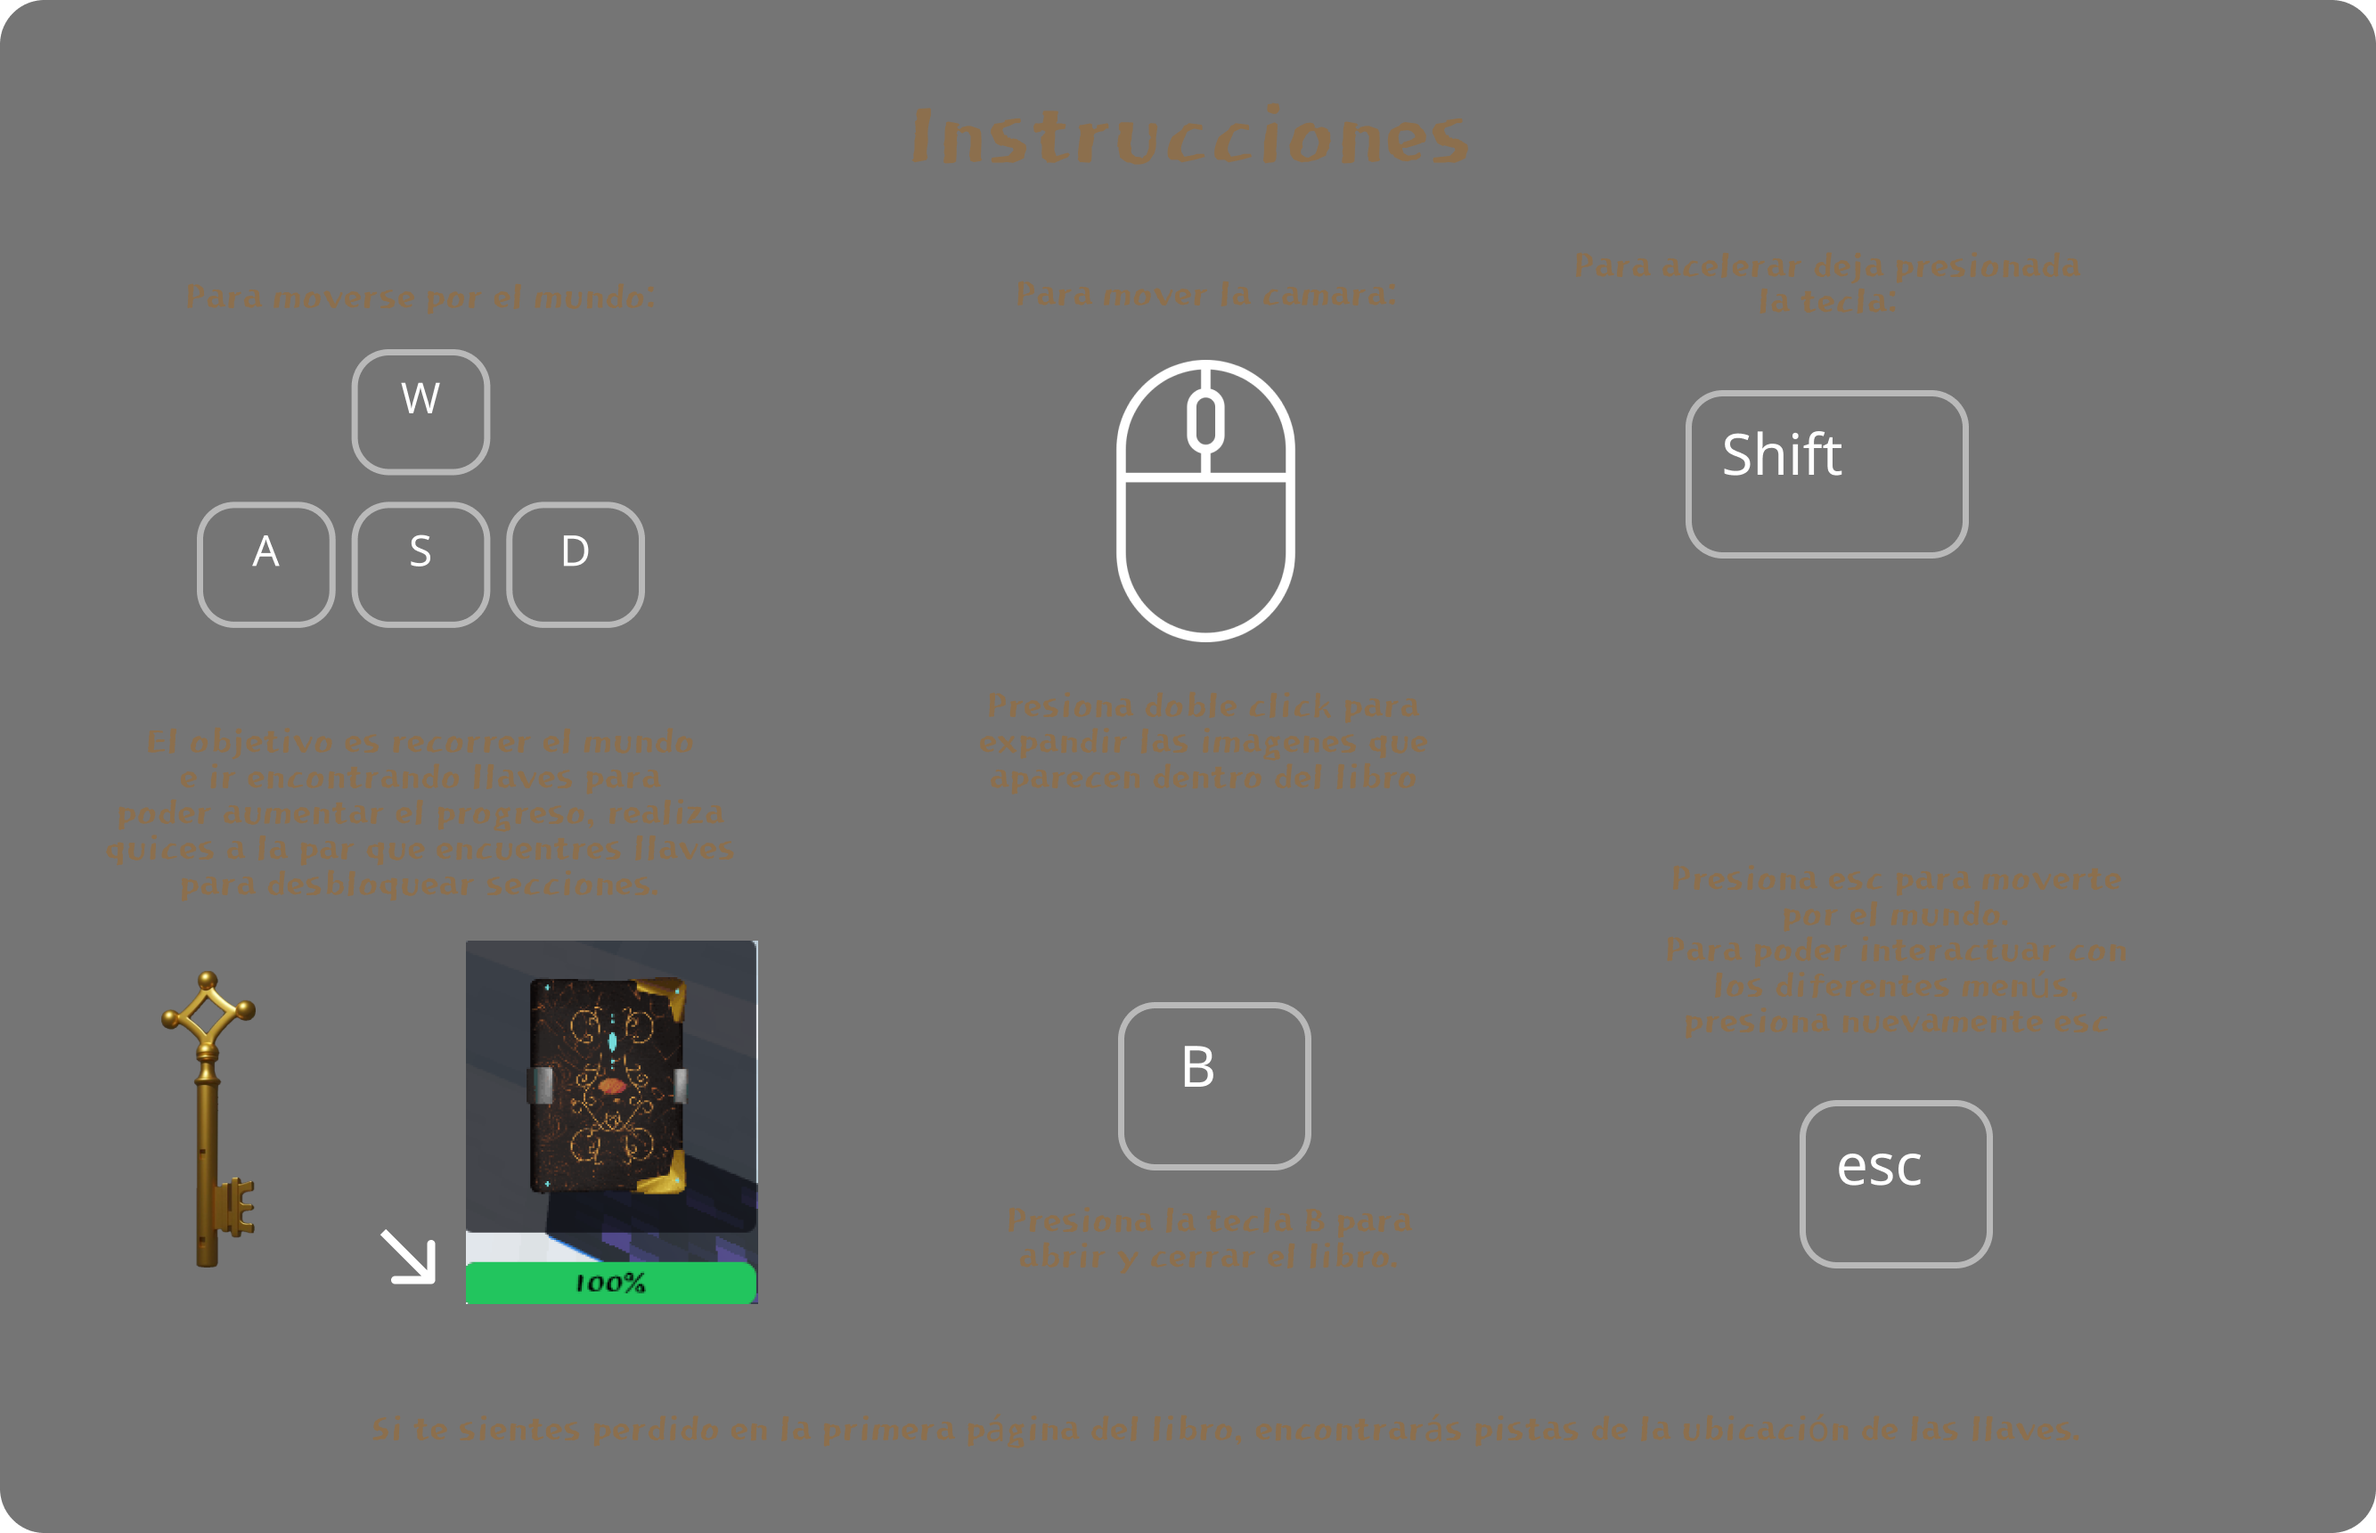
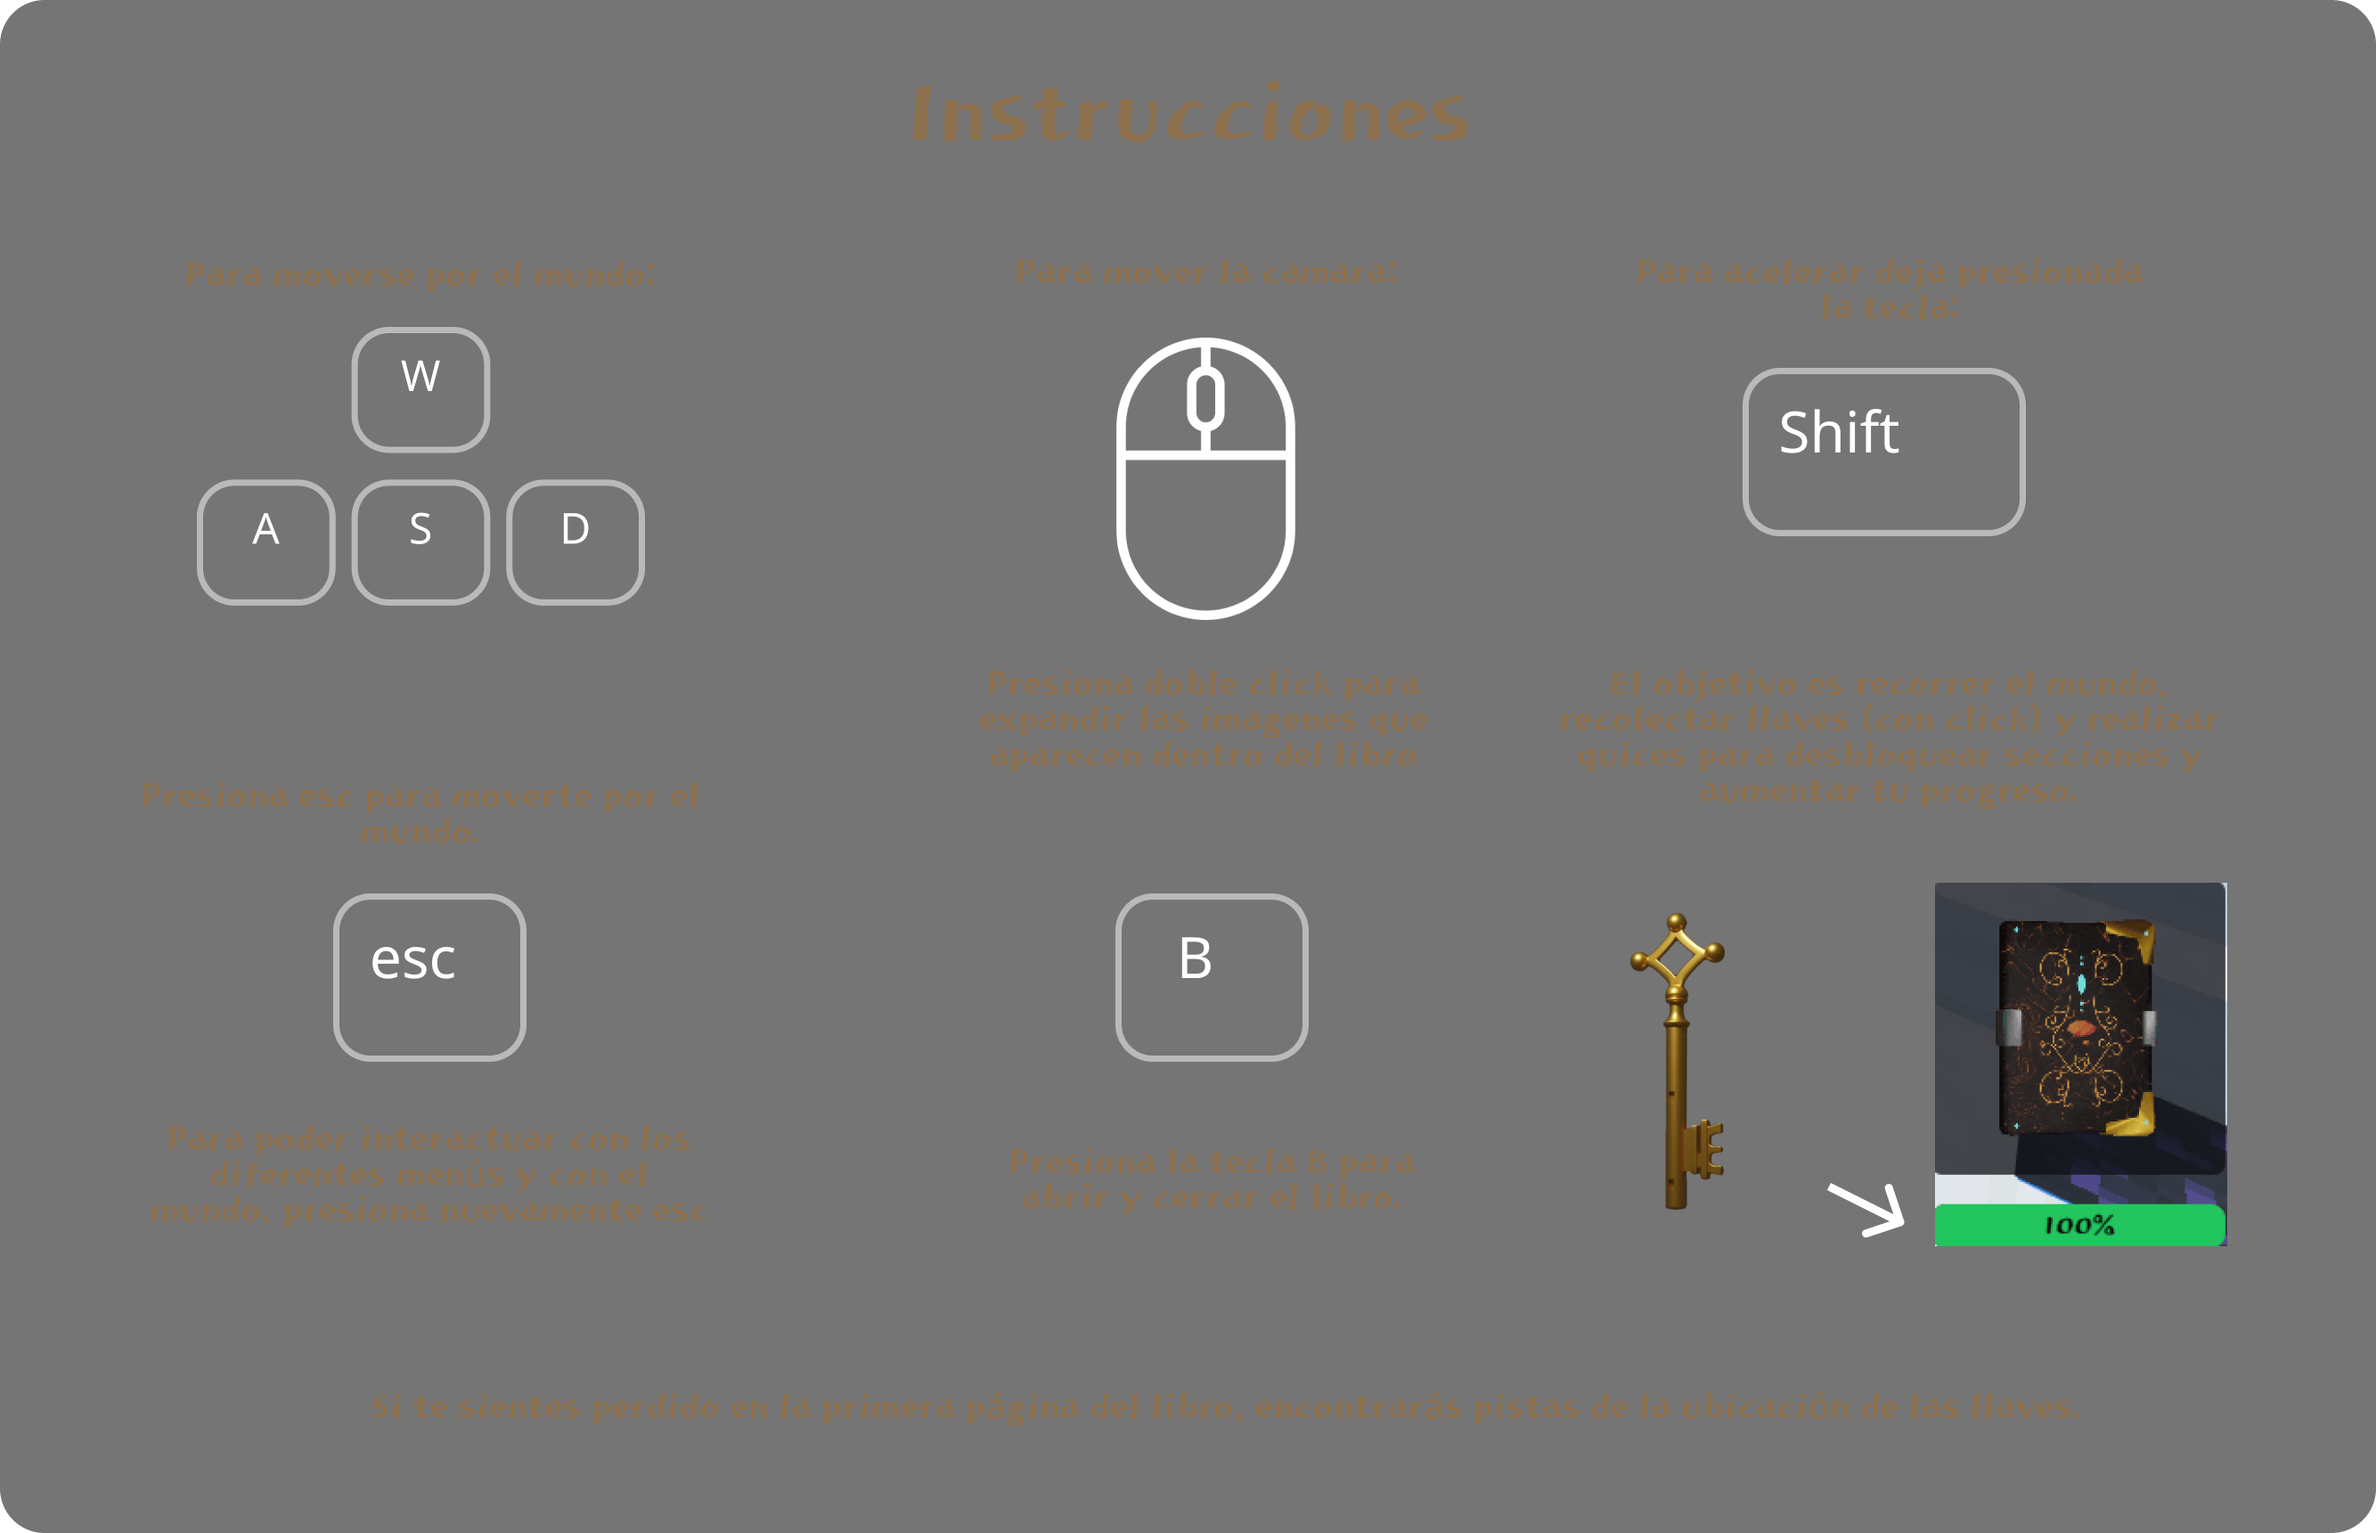
Fix user's guide (valery-jose-andres-cesar)

diff --git a/frontend/src/components/elements/Help.jsx b/frontend/src/components/elements/Help.jsx
@@ -1,6 +1,6 @@
 'use client'
 
-import React, { useState, useContext } from 'react'
+import React, { useState, useContext, useEffect } from 'react'
 import { useRef } from 'react'
 import dynamic from 'next/dynamic'
 import Link from 'next/link'
@@ -13,6 +13,7 @@ export const Help = ({ onClick }) => {
 
   // Estados
   const [showMessage, setShowMessage] = useState(false);
+  const [windowSize, setWindowSize] = useState({ width: 0, height: 0 })
 
   // Contextos
   const { bookState, setBookState } = useContext(BookContext);
@@ -26,22 +27,42 @@ export const Help = ({ onClick }) => {
     setShowMessage(false);
     setBookState({ ...bookState, isHelpOpen: false })
   };
-  
 
-  if (showMessage){
+  //Obtener el tamaño de la ventana
+  useEffect(() => {
+    const handleResize = () => {
+      setWindowSize({
+        width: window.innerWidth,
+        height: window.innerHeight,
+      })
+    }
+
+    // Agregar un listener para actualizar el tamaño de la ventana
+    if (typeof window !== 'undefined') {
+      handleResize() // Obtener el tamaño de la ventana inicial
+      window.addEventListener('resize', handleResize) // Actualizar el tamaño de la ventana al cambiar su tamaño
+    }
+
+    return () => {
+      if (typeof window !== 'undefined') {
+        window.removeEventListener('resize', handleResize) // Eliminar el evento de cambio de tamaño al desmontar el componente
+      }
+    }
+  }, [])
+
+
+  if (showMessage) {
     return (
-      <div className="relative flex items-center justify-center w-full h-full bg-sin_derechos bg-opacity-80 z-50">
+      <div className="relative flex items-center justify-center w-screen h-screen bg-sin_derechos bg-opacity-80 z-50">
 
         {/* Botón de cerrar */}
-        <div className="absolute font-texto text-6xl text-amarillito top-20 right-20 cursor-pointer" onClick={() => handleOnClose()}>X</div>
+        <div className="absolute font-texto text-6xl text-amarillito top-[40px] right-[230px] cursor-pointer" onClick={() => handleOnClose()}>X</div>
 
-        <div className="w-10/12 h-10/12 z-60">
-          <img src='/img/world/guia.png'alt="Guía de usuario" />
-        </div>
+        <img style={{ height: windowSize.height * 0.95 }} src='/img/world/guia.png' alt="Guía de usuario" />
       </div>
     )
   }
-  
+
 
 
   return (

diff --git a/frontend/public/data/labels.js b/frontend/public/data/labels.js
@@ -5,7 +5,7 @@ const labels = [
     rotation: [0, 0, 0],
     text: '¡Hola viajero!, presiona la tecla Esc y haz click aquí.',
     description:
-      '¡Bienvenido a Olimpocraft! Explora la antigua Grecia en busca de llaves dispersas por todo el mundo. Tu misión es encontrarlas mientras aprendes sobre esta fascinante época. Responde quizzes para desbloquear nuevas secciones de conocimiento. ¡No olvides consultar la guía de controles pulsando el símbolo de ayuda en la esquina superior izquierda! ¡Buena suerte en tu aventura!',
+      '¡Bienvenido a Olimpocraft! Explora la antigua Grecia en busca de llaves dispersas por todo el mundo. Tu misión es encontrarlas mientras aprendes sobre esta fascinante Cultura. Responde quizzes para desbloquear nuevas secciones de conocimiento. ¡No olvides consultar la guía de controles pulsando el símbolo de ayuda en la esquina superior izquierda! ¡Buena suerte en tu aventura!',
   },
   {
     id: 1,

diff --git a/frontend/app/world/page.jsx b/frontend/app/world/page.jsx
@@ -248,27 +248,28 @@ export default function Page() {
       )}
 
       {/* Help */}
-      <div className='absolute z-20 left-0 top-0 w-screen h-screen'>
+      <div className='absolute z-20 left-0 top-0'>
         <Help />
       </div>
 
       {/* Music */}
       <div className='absolute z-20 left-0 bottom-0'>
-        <Music onClick={handleMusicToggle}/>
+        {!bookState?.isHelpOpen && <Music onClick={handleMusicToggle}/>}
       </div>
 
       {/* Book */}
       <div className='absolute z-20 bottom-0 right-0'>
-        <Book
+        {!bookState?.isHelpOpen && (<Book
           onClick={() => {
             // handleshowImg()
             setIsBookOpen(!isBookOpen)
           }}
-        />
+        />)}
+        
       </div>
 
       {/* Quiz interface */}
-      {bookState.isQuizOpen && (
+      {bookState?.isQuizOpen && (
         <div
           style={{
             width: windowSize.width * 0.8 + 'px',

diff --git a/frontend/src/components/canvas/book/Book.jsx b/frontend/src/components/canvas/book/Book.jsx
@@ -325,7 +325,7 @@ export function Book({ isBookOpen, setAnimationPage, animationPage }) {
                 )
               })}
 
-            {visibleIndexB && bookPage != 0 ? <IndexButton setBookPage={setBookPage} nextPage={nextPageIndex} /> : null}
+            {visibleIndexB && bookPage != 0 && !bookState.isQuizOpen ? <IndexButton setBookPage={setBookPage} nextPage={nextPageIndex} /> : null}
 
             {/* Pistas */}
             {bookPage == 0 && !bookState.hint && (
